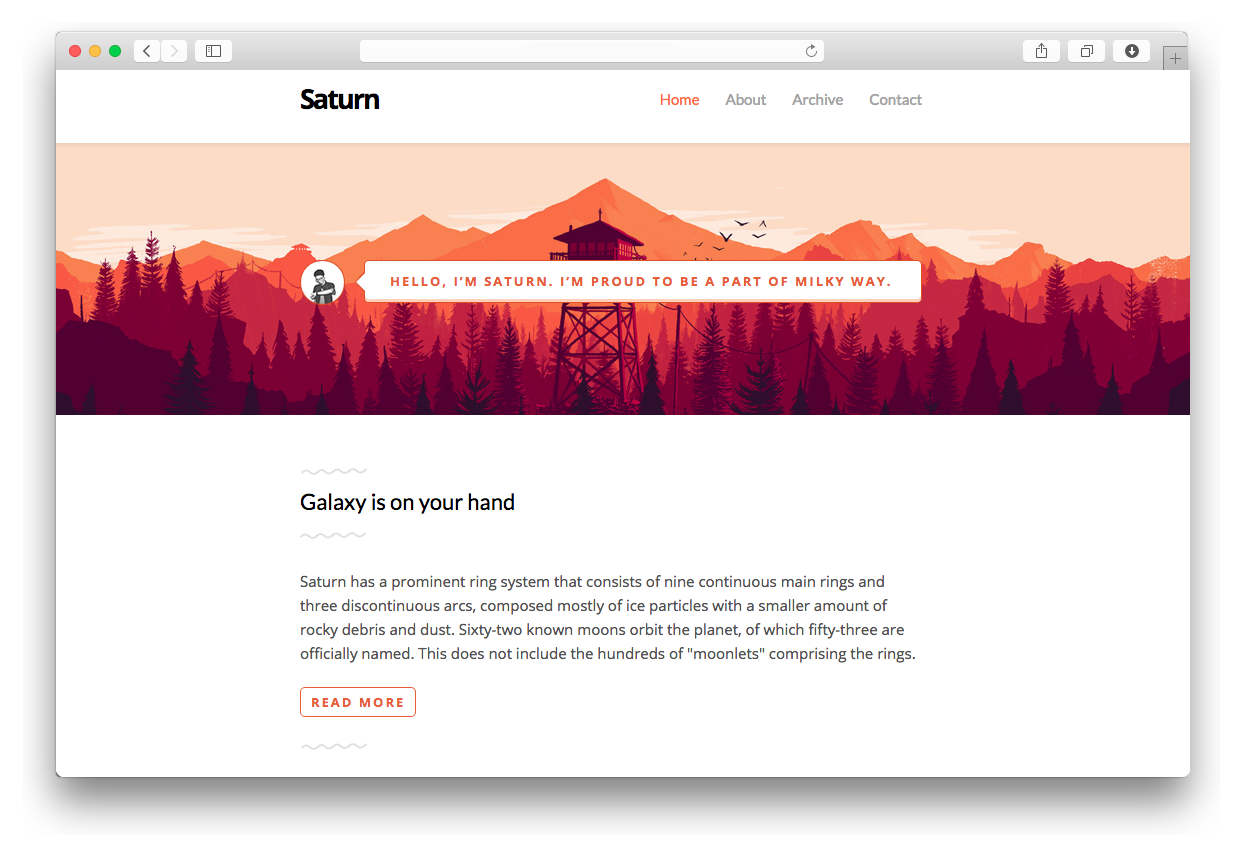
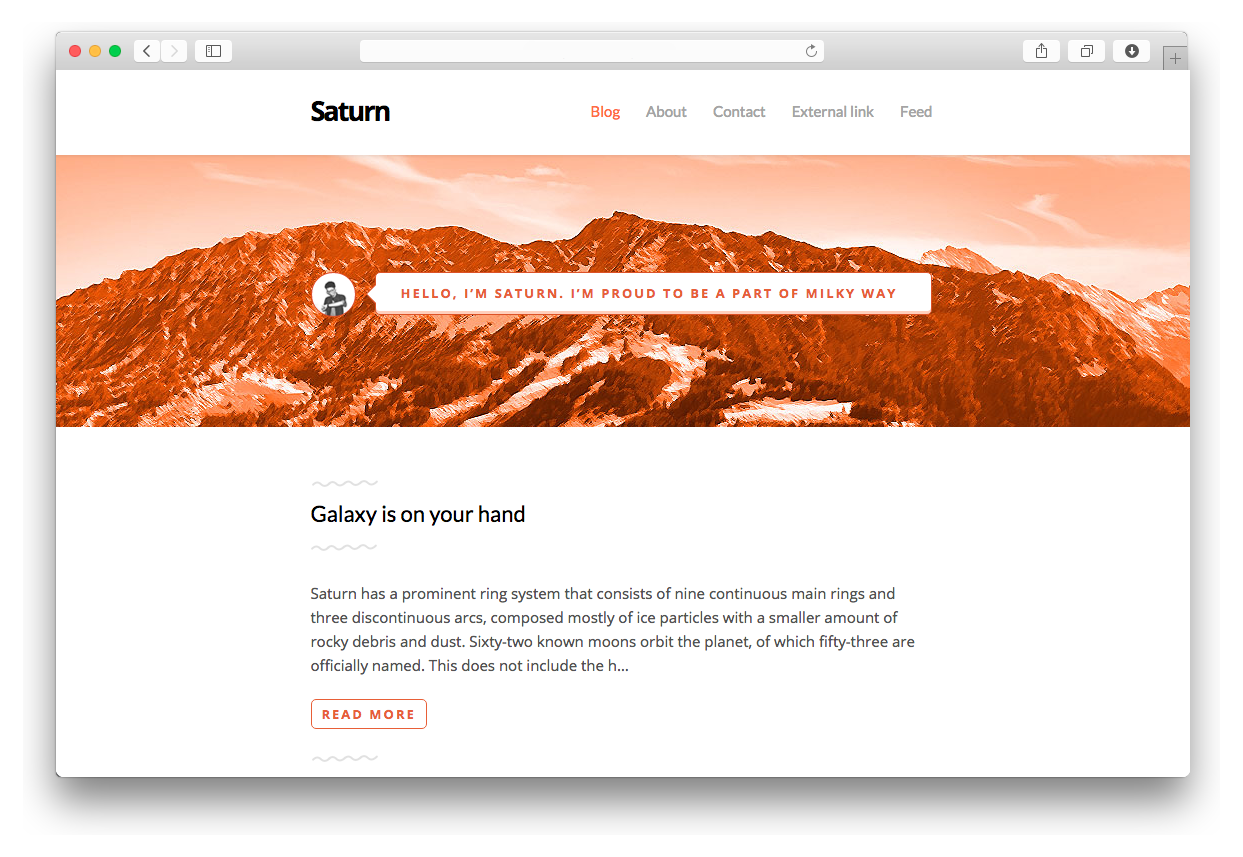
Images replacements due to copyright infringement

Changed region(s): [[0.0306, 0.091, 0.9783, 0.5158], [0.2446, 0.6674, 0.7337, 0.8495], [0.2446, 0.5461, 0.428, 0.6371]]

diff --git a/README.md b/README.md
@@ -38,5 +38,7 @@ To install  **just** the theme:
 $ bin/gpm install saturn
 ```
 
-
-
+# Credits
+* Header Image: [Oliver Wendel](https://unsplash.com/c_ow)
+* Post Image: [warszawianka](http://www.freestockphotos.biz/stockphoto/15150) - Public Domain
+* [Unsplash](https://unsplash.com/)
